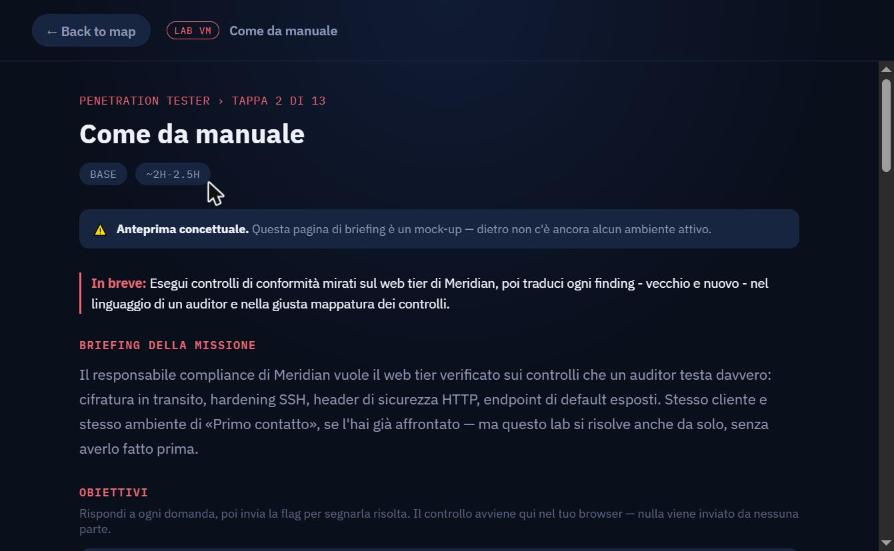
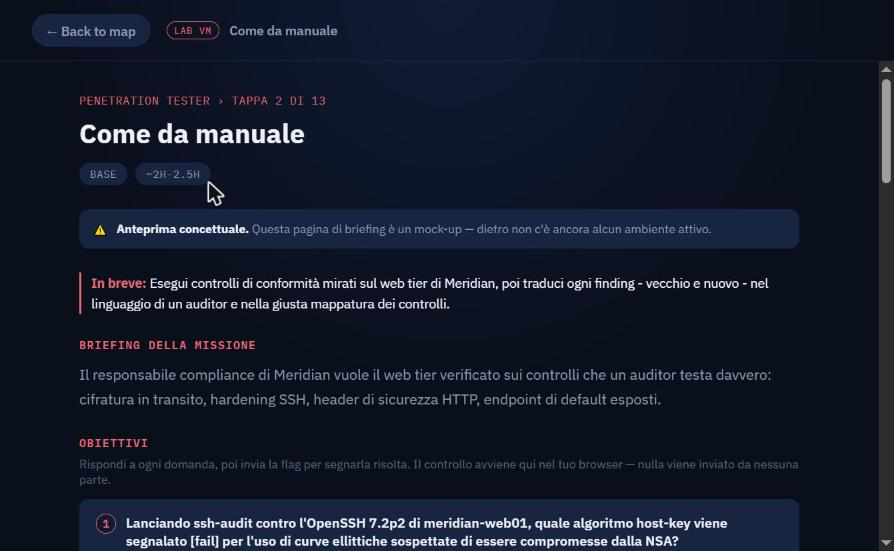
Drop the First Contact callback from By the Book's mission briefing
Removes "Same client and same environment as First Contact, if you've
already done it - but this lab stands on its own, no prior lab
required" from the in-platform scenario text, in all 4 files. The
underlying fact (no mechanical dependency) is unchanged and still
documented in the explanation PDF - this only trims the player-facing
briefing copy.

Rebuilds by-the-book_explanation.pdf with a freshly captured
screenshot so the embedded "Avvia il lab" image matches the trimmed
briefing text.

Changed region(s): [[0.0906, 0.7405, 0.906, 1.0], [0.5436, 0.7096, 0.8456, 0.8022], [0.9664, 0.3085, 0.9966, 0.3394]]

diff --git a/src/indexRewIT-htb.html b/src/indexRewIT-htb.html
@@ -1450,7 +1450,7 @@
           type: "lab",
           id: "by-the-book", tier: "va", labComponents: ["lxr:net-perimeter"], title: "Come da manuale",
           summary: "Esegui controlli di conformità mirati sul web tier di Meridian, poi traduci ogni finding - vecchio e nuovo - nel linguaggio di un auditor e nella giusta mappatura dei controlli.",
-          scenario: "Il responsabile compliance di Meridian vuole il web tier verificato sui controlli che un auditor testa davvero: cifratura in transito, hardening SSH, header di sicurezza HTTP, endpoint di default esposti. Stesso cliente e stesso ambiente di «Primo contatto», se l'hai già affrontato — ma questo lab si risolve anche da solo, senza averlo fatto prima.",
+          scenario: "Il responsabile compliance di Meridian vuole il web tier verificato sui controlli che un auditor testa davvero: cifratura in transito, hardening SSH, header di sicurezza HTTP, endpoint di default esposti.",
           taskIdx: [2, 7],
           skillIdx: [7, 8],
           knowledgeIdx: [7, 10],

diff --git a/src/indexRewIT.html b/src/indexRewIT.html
@@ -1411,7 +1411,7 @@
           type: "lab",
           id: "by-the-book", tier: "va", labComponents: ["lxr:net-perimeter"], title: "Come da manuale",
           summary: "Esegui controlli di conformità mirati sul web tier di Meridian, poi traduci ogni finding - vecchio e nuovo - nel linguaggio di un auditor e nella giusta mappatura dei controlli.",
-          scenario: "Il responsabile compliance di Meridian vuole il web tier verificato sui controlli che un auditor testa davvero: cifratura in transito, hardening SSH, header di sicurezza HTTP, endpoint di default esposti. Stesso cliente e stesso ambiente di «Primo contatto», se l'hai già affrontato — ma questo lab si risolve anche da solo, senza averlo fatto prima.",
+          scenario: "Il responsabile compliance di Meridian vuole il web tier verificato sui controlli che un auditor testa davvero: cifratura in transito, hardening SSH, header di sicurezza HTTP, endpoint di default esposti.",
           taskIdx: [2, 7],
           skillIdx: [7, 8],
           knowledgeIdx: [7, 10],

diff --git a/src/indexRew-htb.html b/src/indexRew-htb.html
@@ -1450,7 +1450,7 @@
           type: "lab",
           id: "by-the-book", tier: "va", labComponents: ["lxr:net-perimeter"], title: "By the Book",
           summary: "Run targeted compliance checks against Meridian's web tier, then translate every finding - old and new - into an auditor's language and the right control mapping.",
-          scenario: "Meridian's compliance officer wants the web tier checked against the controls an auditor actually tests: encryption in transit, SSH hardening, HTTP security headers, exposed default endpoints. Same client and same environment as First Contact, if you've already done it — but this lab stands on its own, no prior lab required.",
+          scenario: "Meridian's compliance officer wants the web tier checked against the controls an auditor actually tests: encryption in transit, SSH hardening, HTTP security headers, exposed default endpoints.",
           taskIdx: [2, 7],
           skillIdx: [7, 8],
           knowledgeIdx: [7, 10],

diff --git a/src/indexRew.html b/src/indexRew.html
@@ -1411,7 +1411,7 @@
           type: "lab",
           id: "by-the-book", tier: "va", labComponents: ["lxr:net-perimeter"], title: "By the Book",
           summary: "Run targeted compliance checks against Meridian's web tier, then translate every finding - old and new - into an auditor's language and the right control mapping.",
-          scenario: "Meridian's compliance officer wants the web tier checked against the controls an auditor actually tests: encryption in transit, SSH hardening, HTTP security headers, exposed default endpoints. Same client and same environment as First Contact, if you've already done it — but this lab stands on its own, no prior lab required.",
+          scenario: "Meridian's compliance officer wants the web tier checked against the controls an auditor actually tests: encryption in transit, SSH hardening, HTTP security headers, exposed default endpoints.",
           taskIdx: [2, 7],
           skillIdx: [7, 8],
           knowledgeIdx: [7, 10],
